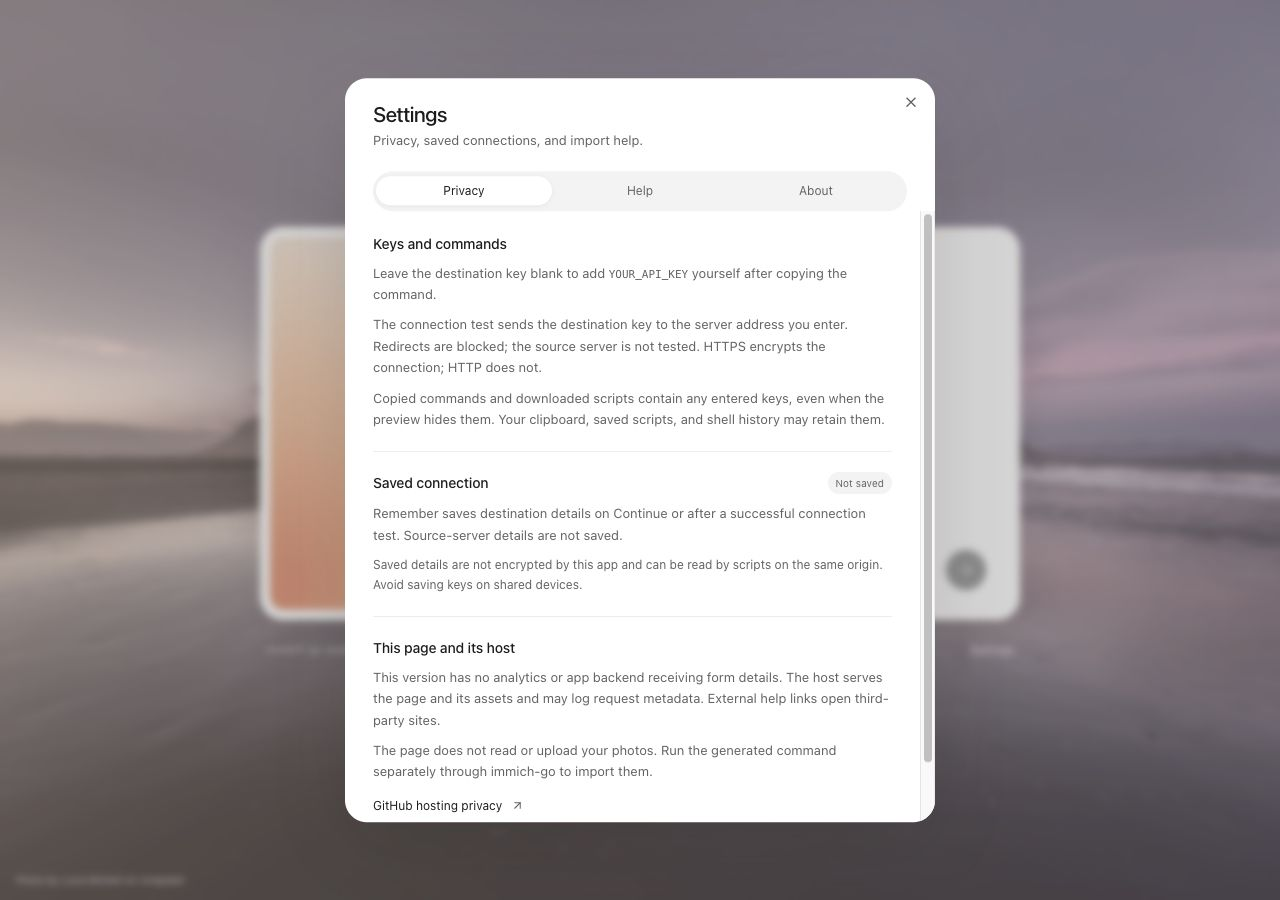
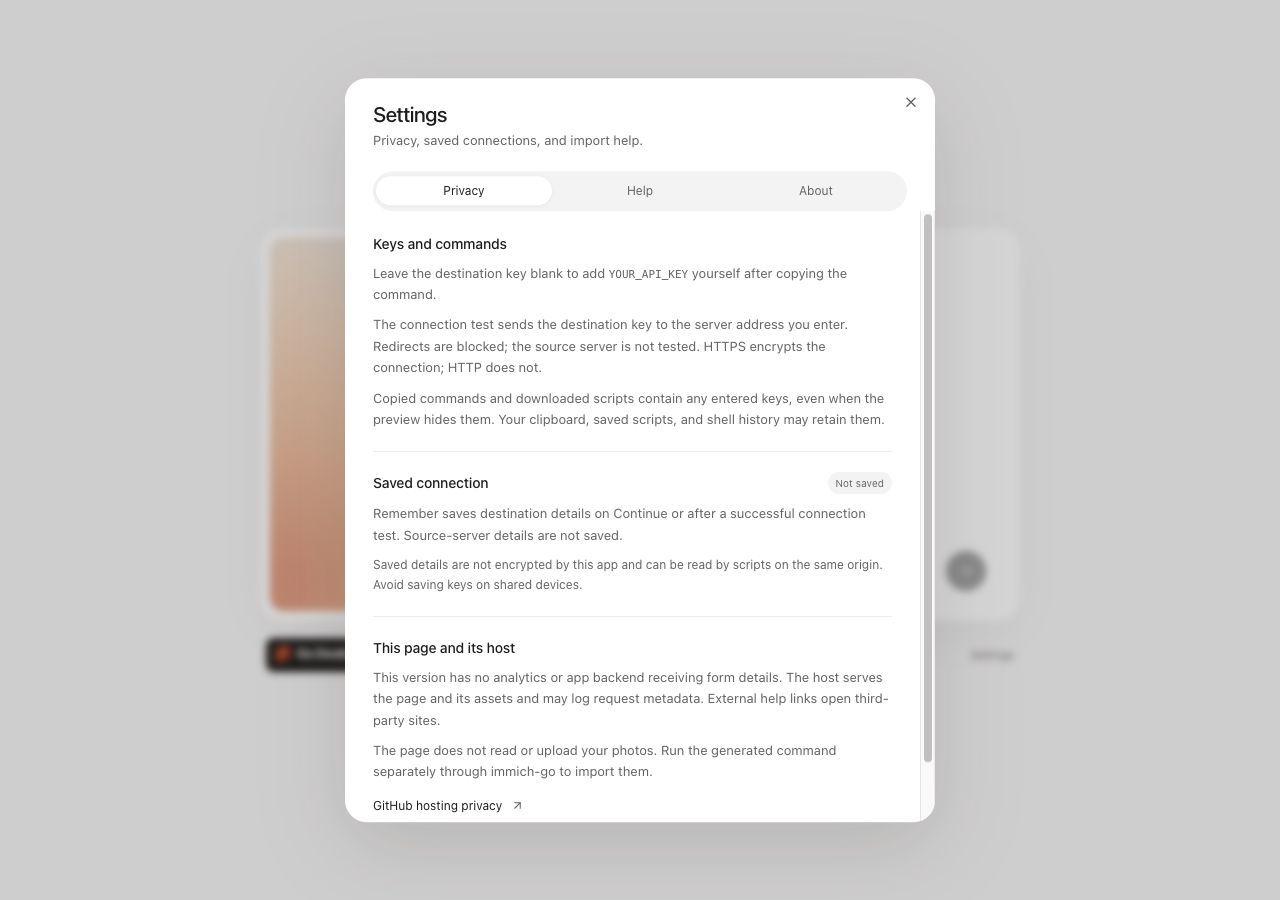
design: return to minimal light background

diff --git a/src/index.css b/src/index.css
@@ -117,27 +117,13 @@
 }
 
 .import-page {
-  position: relative;
-  isolation: isolate;
   display: flex;
   min-height: 100svh;
   align-items: center;
   justify-content: center;
-  padding: 44px 24px 54px;
-  background: #d8c5bd;
+  padding: 44px 24px;
+  background: hsl(var(--background));
 }
-
-.import-page::before, .import-page::after { position: fixed; inset: 0; content: ""; pointer-events: none; }
-.import-page::before {
-  z-index: -2;
-  background: url("/luca-micheli-ruWkmt3nU58-unsplash.jpg") center / cover no-repeat;
-  filter: saturate(0.48) sepia(0.2) brightness(1.08);
-}
-.import-page::after {
-  z-index: -1;
-  background: linear-gradient(120deg, rgba(252, 224, 199, 0.38), rgba(220, 205, 229, 0.27)), linear-gradient(180deg, transparent 40%, rgba(37, 28, 34, 0.15));
-}
-.photo-credit { position: fixed; bottom: 12px; left: 16px; color: #fff; font-size: 10px; text-shadow: 0 1px 5px #30252b; }
 
 .app-shell { width: 100%; max-width: 760px; }
 
@@ -149,7 +135,7 @@
   overflow: hidden;
   border-radius: 23px;
   background: hsl(var(--card));
-  box-shadow: 0 20px 65px -18px rgba(36, 28, 34, 0.28);
+  box-shadow: 0 12px 50px -14px rgba(36, 28, 20, 0.09);
   transition: box-shadow 600ms var(--ease-fluid);
 }
 
@@ -179,13 +165,13 @@
   align-items: center;
   justify-content: space-between;
   padding: 17px 6px 0;
-  color: #fff;
-  text-shadow: 0 1px 5px #30252b;
+  color: hsl(var(--muted-foreground));
   font-size: 11px;
 }
 
 .app-meta button { padding: 5px 0 5px 12px; transition: color 250ms var(--ease-fluid); }
-.app-meta button:hover { color: #fff; opacity: 0.8; }
+.app-meta button:hover { color: hsl(var(--foreground)); }
+.app-brand { display: block; padding: 5px 8px; border-radius: 8px; background: hsl(var(--foreground)); }
 .app-logo { position: relative; display: block; width: calc(24px * 219 / 55); height: 24px; }
 .app-logo img { display: block; width: 100%; height: 100%; }
 .app-logo-wordmark { filter: brightness(0) invert(1); clip-path: inset(0 0 0 20%); }
@@ -289,7 +275,7 @@
 .settings-resources { display: flex; flex-direction: column; gap: 7px; }
 
 @media (hover: hover) and (pointer: fine) {
-  .import-window:hover { box-shadow: 0 25px 75px -20px rgba(36, 28, 34, 0.32); }
+  .import-window:hover { box-shadow: 0 16px 60px -18px rgba(36, 28, 20, 0.13); }
   .import-window:hover .gradient-panel::before { transform: scale(1.045) translateY(2px); }
   .source-picker:hover { background: #eeeeee; transform: translateY(-1px); box-shadow: 0 3px 9px rgba(0, 0, 0, 0.025); }
   .ui-button:hover:not(:disabled) { transform: translateY(-1px); }
@@ -300,7 +286,7 @@
 }
 
 @media (max-width: 640px) {
-  .import-page { padding: 28px 16px 54px; }
+  .import-page { padding: 28px 16px; }
   .app-shell { max-width: 430px; }
   .import-window { grid-template-columns: 1fr; border-radius: 22px; }
   .gradient-panel { height: 112px; border-radius: 13px; }

diff --git a/screenshots/design-revision/comparison.html b/screenshots/design-revision/comparison.html
@@ -40,8 +40,8 @@
         </figure>
         <figure>
           <span class="label after">Latest local</span>
-          <a href="after.jpg" target="_blank" rel="noopener"><img src="after.jpg" alt="Minimal app over the original landscape, softened to match its peach, cream, and lilac card artwork" /></a>
-          <figcaption><h2>A quieter visual direction</h2><p>The original landscape with a warmer, muted treatment. A compact card, one selector, one action, fluid transitions, and reduced-motion support.</p></figcaption>
+          <a href="after.jpg" target="_blank" rel="noopener"><img src="after.jpg" alt="Minimal app on a plain light background with peach, cream, and lilac card artwork" /></a>
+          <figcaption><h2>A quieter visual direction</h2><p>A plain light backdrop, soft card artwork, and a compact Go Desktop logo. One selector, one action, fluid transitions, and reduced-motion support.</p></figcaption>
         </figure>
       </div>
       <h2 class="section-title">Settings</h2>

diff --git a/src/components/MacWindow.tsx b/src/components/MacWindow.tsx
@@ -40,9 +40,11 @@ const MacWindow: React.FC<MacWindowProps> = ({ children, onSettingsClick }) => {
         </div>
       </m.div>
       <footer className="app-meta">
-        <span className="app-logo">
-          <img className="app-logo-wordmark" src={`${import.meta.env.BASE_URL}logo.png`} alt="Go Desktop" width={219} height={55} />
-          <img className="app-logo-icon" src={`${import.meta.env.BASE_URL}logo.png`} alt="" aria-hidden="true" width={219} height={55} />
+        <span className="app-brand">
+          <span className="app-logo">
+            <img className="app-logo-wordmark" src={`${import.meta.env.BASE_URL}logo.png`} alt="Go Desktop" width={219} height={55} />
+            <img className="app-logo-icon" src={`${import.meta.env.BASE_URL}logo.png`} alt="" aria-hidden="true" width={219} height={55} />
+          </span>
         </span>
         {onSettingsClick && <button type="button" onClick={onSettingsClick}>Settings</button>}
       </footer>

diff --git a/src/pages/Index.tsx b/src/pages/Index.tsx
@@ -1024,7 +1024,6 @@ const Index = () => {
         onTabChange={setSettingsTab}
         onForgetSavedConnection={() => update({ rememberOnDevice: false })}
       />
-      <span className="photo-credit">Photo by Luca Micheli on Unsplash</span>
     </div>
   );
 };

diff --git a/PRIVACY.md b/PRIVACY.md
@@ -6,7 +6,7 @@ Reviewed October 15, 2026. This describes the current client code and production
 
 | Action | What happens |
 | --- | --- |
-| Load the app | The browser requests the page, bundled JavaScript, stylesheet, icons, and landscape image from the app host. The app has no analytics SDK or application backend collecting form details. Hosting infrastructure may record request metadata. |
+| Load the app | The browser requests the page, bundled JavaScript, stylesheet, and branding images from the app host. The app has no analytics SDK or application backend collecting form details. Hosting infrastructure may record request metadata. |
 | Enter connection details | Values are held in page memory. Blank key fields become placeholders in the generated command. The page does not read photo files. |
 | Continue | The app builds a command locally. If Remember is selected, it stores the destination address and any destination key in browser localStorage. Otherwise it attempts to remove that stored record. No connection test is run by Continue. |
 | Test connection | The browser makes one GET request to the entered destination base URL plus `/api/server/about`, using the destination key in the `x-api-key` header. It does not test or send the source key. |
@@ -23,7 +23,7 @@ Reviewed October 15, 2026. This describes the current client code and production
 - Saved keys are plain text, not encrypted by this app. localStorage is scoped to an origin, not a repository path: other scripts on that origin can access it. This matters for multiple projects served under the same GitHub Pages domain. Do not save keys on shared devices.
 - Preview keys are replaced before shell formatting, so punctuation and spaces do not leave partial key fragments visible. This is visual masking, not encryption or removal from page memory.
 - PowerShell exports use literal single-quoted strings. Unix shell strings escape apostrophes. CMD exports reject quotes, percent signs, and exclamation marks instead of trying to share unsafe interpolation rules between interactive and batch execution; use PowerShell for those values. Control characters and embedded line breaks are rejected. Photo paths starting with a hyphen are rejected so they cannot override command options; use a full path or `./` prefix. These controls do not make arbitrary unreviewed commands safe to execute.
-- The app's landscape image and other runtime assets are bundled with the app. External help links use `noreferrer` and open third-party sites only when followed.
+- Runtime assets are bundled with the app; the card artwork is a CSS gradient. External help links use `noreferrer` and open third-party sites only when followed.
 
 ## Limits to the wording
 

diff --git a/CHANGELOG.md b/CHANGELOG.md
@@ -4,7 +4,7 @@ All notable changes to this project will be documented in this file.
 
 ## [Unreleased]
 ### Changed
-- Restored the original bundled landscape with a muted peach/lilac treatment. Replaced broad privacy guarantees with an explicit data-flow description, including host requests, plaintext saved keys, full-key exports, and dry-run server traffic. Connection tests now block redirects, omit ambient credentials/referrers, and time out. Added safer shell-specific quoting, complete preview-key masking, and resilient saved-connection controls with regression coverage.
+- Kept a plain light backdrop with soft gradient card artwork and a white Go Desktop wordmark on a compact dark backing. Replaced broad privacy guarantees with an explicit data-flow description, including host requests, plaintext saved keys, full-key exports, and dry-run server traffic. Connection tests now block redirects, omit ambient credentials/referrers, and time out. Added safer shell-specific quoting, complete preview-key masking, and resilient saved-connection controls with regression coverage.
 - Removed a machine-specific hostname from the flag registry and sanitized saved CLI-help captures. Removed the local branch label from the design comparison, made the command-test key an explicit fixture, and added ignore rules for environment files and private keys.
 - Adopted PolyForm Noncommercial 1.0.0 for this revision, with a separate written license required for commercial use outside its permitted purposes. Added GitHub commercial-license requests and updated the README, package metadata, and Settings. Preserved the previous MIT notice and existing MIT rights; third-party licenses are unchanged.
 - Gave the gradient a distinct peach, cream, and lilac composition. Refined Settings with concise sections, clear saved-connection status, accessible copy feedback, expandable help, and a bounded scrolling layout. Updated the design comparison against the actual published app.
